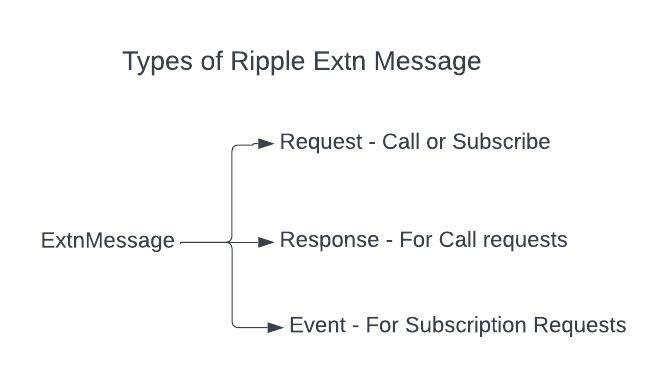
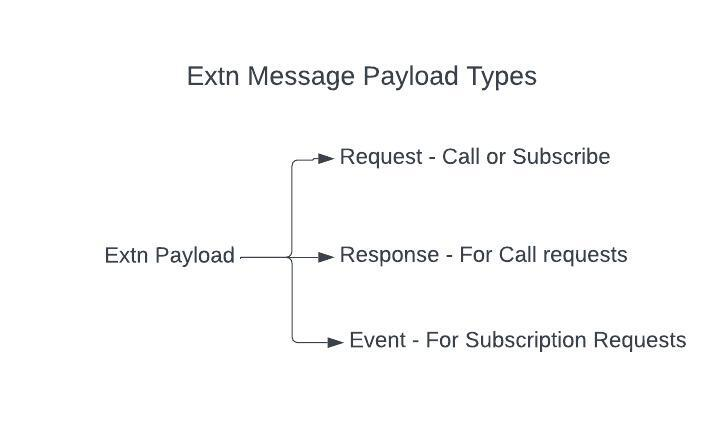
docs: update

diff --git a/core/sdk/docs/client.md b/core/sdk/docs/client.md
@@ -8,15 +8,18 @@ __*Crossbeam Channel*__ - [Rust library](https://docs.rs/crossbeam/latest/crossb
 __*Extension*__ - Ripple Dynamic link library which can be loaded during runtime and offer more extensive capabilities. 
 
 ## Overview
-Main objective for the Extn client is to provide a reliable and robust communication channel between the  Ripple main applications and its extensions. There are challenges when using Dynamic Linked libraries which needs to be carefully handled for memory, security and reliability. `Client` is built into the Ripple core sdk for a better Software delivery and Operational(SDO) performance.
+Core objective for the Extn client is to provide a reliable and robust communication channel between the  `Main` and its extensions. There are challenges when using Dynamic Linked libraries which needs to be carefully handled for memory, security and reliability. `Client` is built into the `core/sdk` for a better Software Delivery and Operational(SDO) performance.
 
-Lets look into how the `Client` works
+Lets look a little deeper into the `Client`
 
 ### Inter Extension Communication(IEC)
 ![Inter Extension Communication](./images/IEC.jpeg)
-Above image is a zoomed out view of Extn clients are connected to each other. So there are 3 components in this above image
+Above image is a zoomed out view of Extn clients are connected between the `Main` and couple of extensions. So there are 3 components in this above image
+
 a. `Main Application` - This is the `core/main` application which is the loader and also the entry point to the Ripple application
+
 b. `Device Channel Extension` - Device channel which maintains a state of persistent connection with the underlying Device Interface.
+
 c `Some Other Extension` - Either a proprietary or a device specific extension which resides outside the main application and loaded as a Dynamic Link Library
 
 #### All roads lead to Ripple Main
@@ -30,13 +33,76 @@ Above image is a very good example of how `Main` rejects any requests from `c` i
 
 ![Capability Permitted](./images/cappermitted.jpeg)
 
+### Crossbeam Channel
+Crossbeam provides a safe FFI bridge between Extensions and `Main` any communication between `Client` happens on this channel. It uses MPMC which expands to Multiple Producer and Multiple Consumer model. 
+
+Each extension `Client` gets a Sender to call `Main` with requests. It also uses this same sender to send back the response if there is no callback supplied for a given request.
+
+`Client` also gets a receiver which is used for Message processing. Implementation sections covers the reciver in a bit more detail.
+
 ### Extn Message
+
+Extn Message provides the API content structure for the client. In simpler terms if `Client` is the speaker then `Message` is the language. Message for Client is heavily  structured in a way to handle crossing FFI boundary between extensions. Here is the structure of a ExtnMessage
+
+```
+pub struct ExtnMessage {
+    pub id: String,
+    pub requestor: ExtnCapability,
+    pub target: ExtnCapability,
+    pub payload: ExtnPayload,
+    pub callback: Option<CSender<CExtnMessage>>,
+}
+```
+
+Below table explains what each field means
+| Field        | Type           | Note  |
+| ------------- |-------------| -----|
+| id     | String| Usually an UUID to identify a specific message |
+| requestor      | ExtnCapability      | Looks something like `ripple:main:internal:rpc` when converted to String for a request coming from `Main`  |
+| target | ExtnCapability      |    Something like `ripple:channel:device:info` for the device channel info request|
+| payload| ExtnPayload| Payloads will be discussed in detail on the next section|
+|callback|Crossbeam `Sender<CExtnMessage>` | Usually added by `Main` to the `target` to respond back to the `requestor`|
+
+### Extn Payloads
+There are 3 types of Extn Payloads
+
+1. Request - Could be a Call request or a subscription request.
+2. Response - Response for a Call Request.
+3. Event - Object used by listeners of subscription request.
+
+![Payload types](./images/ExtnMessageTypes.jpeg)
+
 ### Encoding/Decoding
+For a given Message to travel between dynamic link libraries it needs to make sure that the data is ABI friendly. To achieve this feature ExtnClient has an encoder and decoder to pass the data safely and securely across crossbeam channels.
+![Encoding Decoding](./images/enc_dec.jpeg)
+Extn client uses a C friendly Structure called CExtnMessage to safely convert the ExtnMessage object for FFI transport.
+Each Extn client has a encoder and decoder for sending and receiving messages.
 
+![Client Bone](./images/client_backbone.jpeg)
+Above diagram explains how 2 clients are binded within a crossbeam channel using encoder and decoder this is the backbone for the Extn client.
 ## Implementation
+`Client` contains a `Sender` and `Processors`. 
 
+`Sender` responsibilities remain mainly to `encode` the ExtnMessage and pass it to the target.
+`Processor` on the other hand handles more sophisticated operations depending on the type of the payload.
+
+![Client operations](./images/client_operations.jpeg)
+Above image explains the operations possible within Extn client.
 ### Request Response Lifecycle
 
+#### Registration
+
+#### Identification
+
+#### Delegation
+
+Below diagram explains the list of steps for an Extn request to get a response. 
+![Request Response Lifecycle](./images/request_response_lifecycle.jpeg)
+
+1. Caller provides the `ExtnPayload` this payload has to implement `ExtnPayloadProvider` provided in the `core/sdk`
+2. `Client` receives the payload and checks the `requestor`. 
+If `Client` is inside a Extension library it will send the payload to `Sender`
+If `Client` is in `Main` it will check for the requestor permissions. Once Permissions are satisfied it will forward the request to the Target extn client. 
 ### Event Subscription Lifecycle
 
 ## References

diff --git a/core/sdk/docs/capabilities.md b/core/sdk/docs/capabilities.md
@@ -1,0 +1,33 @@
+# What is a Ripple Capability?
+Ripple Capability is similar to a firebolt capability which defines a component's ability to perform a concrete unit of work.
+
+#### Difference between a Channel and Extension
+
+Channel is an extension which holds a state during the lifetime of its operations. Good example of a Channel is the Thunder Thread which connects to the device. Channel stores a state of the connection in its lifetime. Extensions can be loaded into channel to make it more extensible
+
+Extension is a one time use and recycle object, there is no state persisted it performs and operation and makes itself available for recycling.
+For example For the Device there would be a thunder channel. There could be some Proprietary API(S) like AuthService which will be part of a private repository and added as an extension to the Thunder channel.
+
+
+
+Below is anatomy of a Ripple capability
+
+> ripple:[channel/extn]:[class]:[service]:[feature (optional)]
+
+#### Decoding some Ripple Capabilities
+
+Below capability means the given plugin offers a channel for Device Connection. Service used  for the device connection is Thunder.
+>ripple:channel:device:thunder
+
+Below Capability means the given plugin offers a channel for Data Governance. Service used for the feature is `somegovernance` service
+>ripple:channel:data-governance:somegovernance
+
+Below capability means the given plugin offers an extension for the Device Thunder Channel. It offers the auth thunder plugin implementation.
+>ripple:extn:device:thunder:auth
+
+Below capability means the given plugin offers a permission extension for the distributor. Name of the service is called `fireboltpermissions`.
+>ripple:extn:distributor:permissions:fireboltpermissions
+
+Below capability means the given plugin offers a JsonRpsee rpc extension for a service named badger
+>ripple:extn:jsonrpsee:bridge
+
